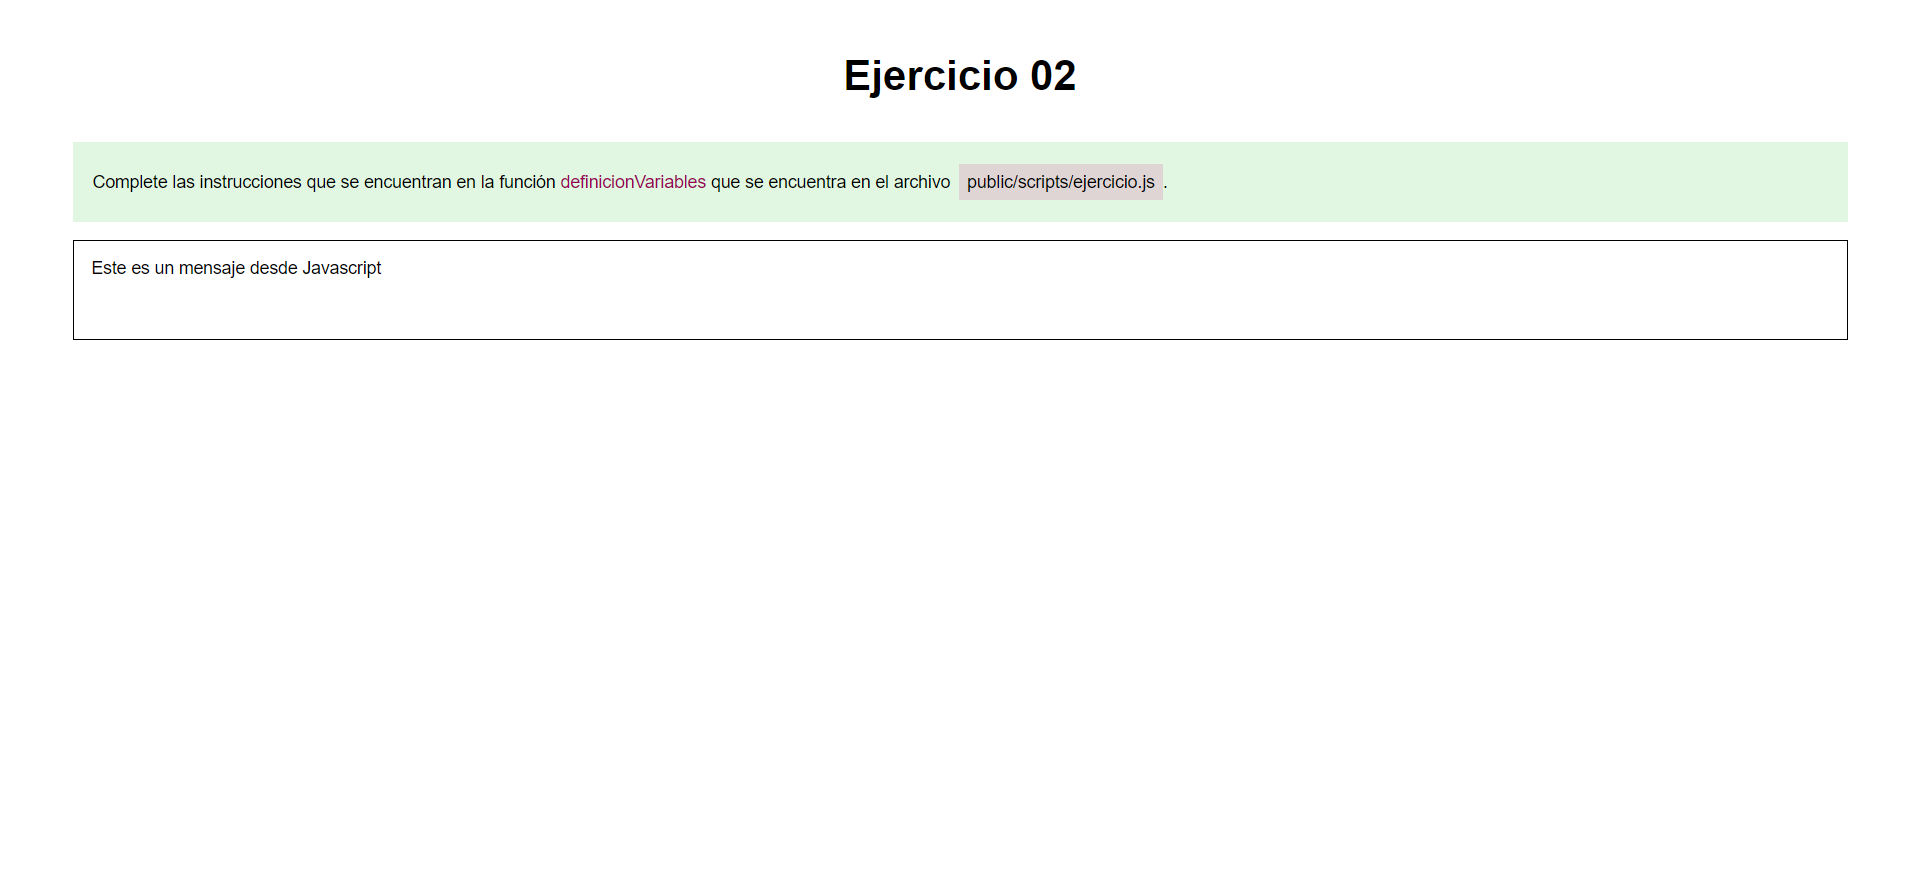
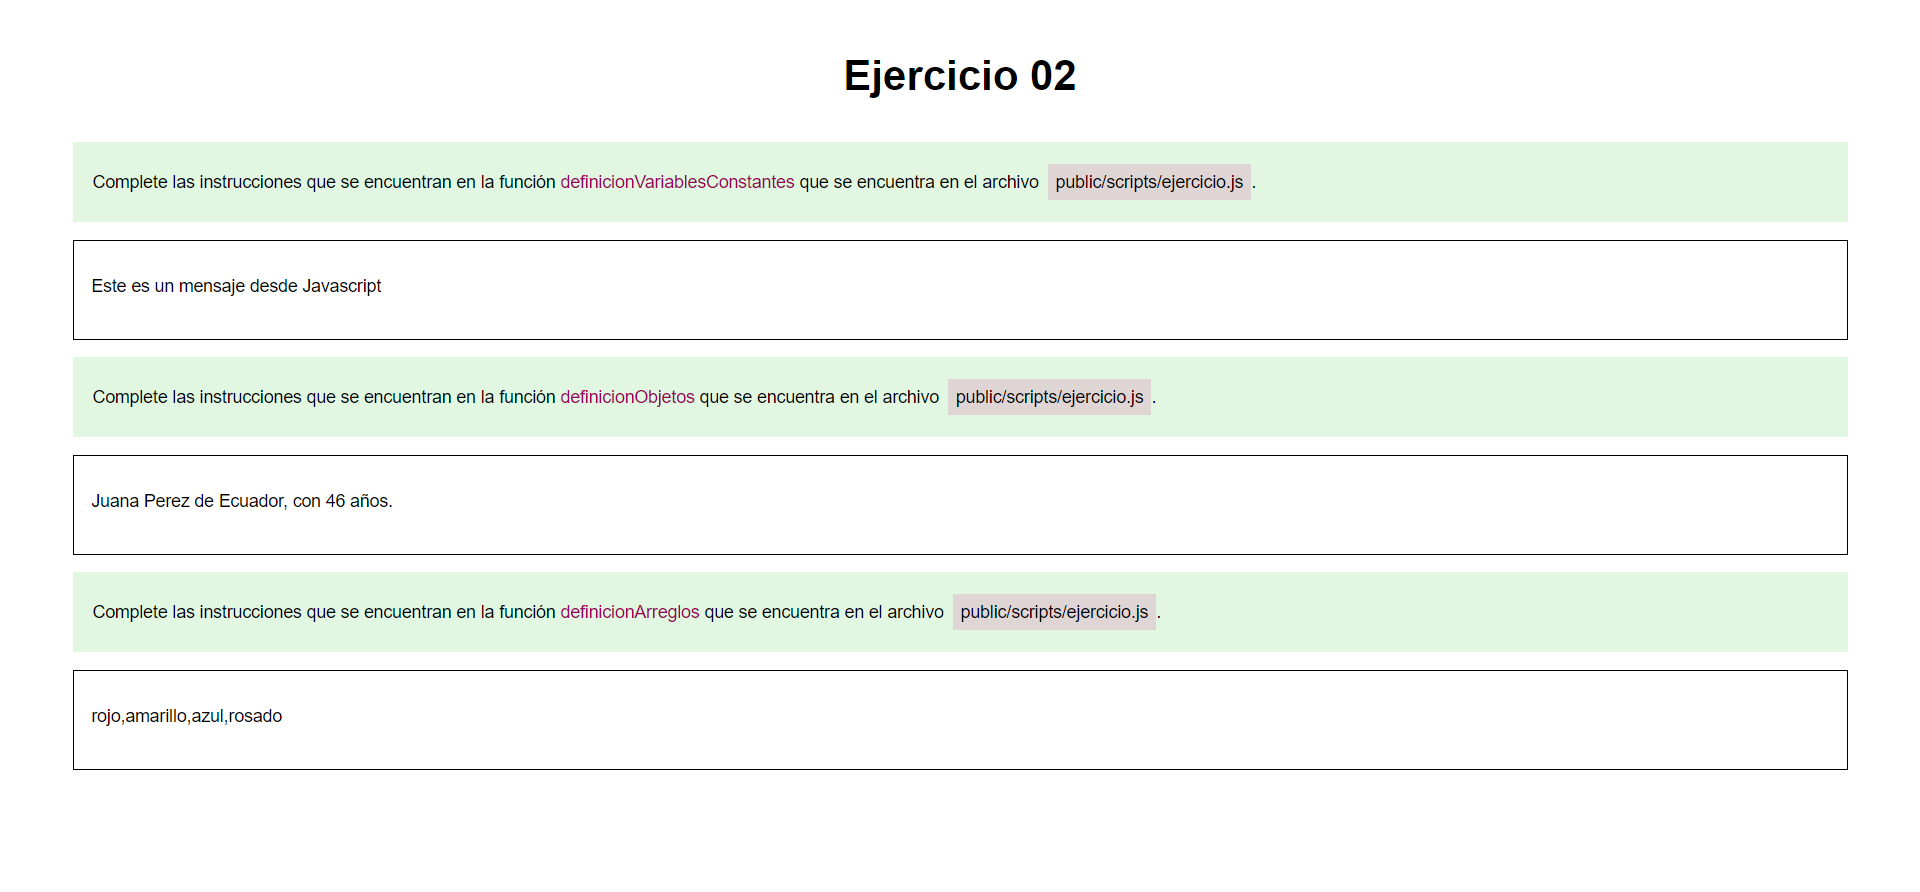
'C04/EJ04'

diff --git a/Capítulo 04/ejercicio02/test/ejercicio.test.js b/Capítulo 04/ejercicio02/test/ejercicio.test.js
@@ -19,31 +19,150 @@ describe('Test unitarios para la ruta `/`', function() {
         })
     });
 
-    it('Asignación de variables', function() {
+    it('Variables y constantes', function() {
       return request(app)
         .get('/scripts/ejercicio.js')
         .then((response) => {
 
+         let responseClean = response.text.replace(/(\r\n|\n|\r)/gm, '').replace(/ /gm,'')
+         let scriptTexto, scriptEjecutable
+
+         /* Revisión textual */
          try {
-
-            /* Revisión textual */
-            let responseClean = response.text.replace(/(\r\n|\n|\r)/gm, '')
-            let scriptTexto = `let mensaje = "Este es un mensaje desde Javascript"`
+            scriptTexto = `let mensaje = "Este es un mensaje desde "`.replace(/(\r\n|\n|\r)/gm, '').replace(/ /gm,'')
             chai.expect(responseClean).to.contain(scriptTexto)
-
-            /* Revisión al ejecutar */
-            let scriptEjecutable = requireFromString(response.text)
-            let mensaje = "Este es un mensaje desde Javascript"
-            chai.expect(scriptEjecutable.definicionVariables()).to.equal(mensaje)
-
           } catch (error) {
-            chai.expect.fail('La variable mensaje debe tener el valor "Este es un mensaje desde Javascript"');
+            chai.expect.fail('La variable mensaje debe tener el valor "Este es un mensaje desde "');
+            return;
+          }
+
+          try {
+            scriptTexto = `const LENGUAJE = "Javascript"`.replace(/(\r\n|\n|\r)/gm, '').replace(/ /gm,'')
+            chai.expect(responseClean).to.contain(scriptTexto)
+          } catch (error)
+          {
+            chai.expect.fail('La constante LENGUAJE debe tener el valor "Javascript"');
+            return;
+          }
+
+          /* Revisión con ejecución */
+          try {
+            scriptEjecutable = requireFromString(response.text)
+            let respuesta = "Este es un mensaje desde Javascript"
+            chai.expect(scriptEjecutable.definicionVariablesConstantes()).to.equal(respuesta)
+          } catch (error)
+          {
+            chai.expect.fail('La función debe retornar el valor "Este es un mensaje desde Javascript"');
             return;
           }
             
         })
-    });
-    
-   
+          
+    });  
+
+    it('Objetos', function() {
+      return request(app)
+        .get('/scripts/ejercicio.js')
+        .then((response) => {
+
+         let responseClean = response.text.replace(/(\r\n|\n|\r)/gm, '').replace(/ /gm,'')
+         let scriptTexto, scriptEjecutable
+
+         
+         /* Revisión textual */
+         try {
+            scriptTexto = `
+            let contacto = {
+                nombre: 'Juana',
+                apellido: 'Perez',
+                edad: 46,
+                casado: false,
+                sueldo: 1289.36,
+                direccion: {
+                    pais: 'Ecuador',
+                    provincia: 'Guayas',
+                    ciudad: 'Guayaquil'
+                }
+            }`.replace(/(\r\n|\n|\r)/gm, '').replace(/ /gm,'')
+
+            chai.expect(responseClean).to.contain(scriptTexto)
+          } catch (error) {
+            chai.expect.fail('Revise la estructura del objeto contacto en los comentarios');
+            return;
+          }
+
+
+          /* Revisión con ejecución */
+          try {
+            scriptEjecutable = requireFromString(response.text)
+            let respuesta = "Juana Perez de Ecuador, con 46 años."
+            chai.expect(scriptEjecutable.definicionObjeto()).to.equal(respuesta)
+          } catch (error)
+          {
+            chai.expect.fail('La función debe retornar los valores solicitados en el objeto contacto');
+            return;
+          }
+            
+        })
+          
+    });   
+
+    it('Arreglos', function() {
+      return request(app)
+        .get('/scripts/ejercicio.js')
+        .then((response) => {
+
+         let responseClean = response.text.replace(/(\r\n|\n|\r)/gm, '').replace(/ /gm,'')
+         let scriptTexto, scriptEjecutable
+
+         
+         /* Revisión textual */
+         try {
+            scriptTexto = `let colores = ['rojo', 'verde', 'azul']`.replace(/(\r\n|\n|\r)/gm, '').replace(/ /gm,'')
+            chai.expect(responseClean).to.contain(scriptTexto)
+          } catch (error) {
+            chai.expect.fail('Revise la definición del arreglo colores');
+            return;
+          }
+
+          try {
+            scriptTexto = `colores[1] = 'amarillo'`.replace(/(\r\n|\n|\r)/gm, '').replace(/ /gm,'')
+            chai.expect(responseClean).to.contain(scriptTexto)
+          } catch (error) {
+            chai.expect.fail("Revise cambiar el elemento en el índice 1 por 'amarillo'");
+            return;
+          }
+
+          try {
+            scriptTexto = `colores.push('rosado')`.replace(/(\r\n|\n|\r)/gm, '').replace(/ /gm,'')
+            chai.expect(responseClean).to.contain(scriptTexto)
+          } catch (error) {
+            chai.expect.fail("Revise agregar el elemento 'rosado' al final del arreglo");
+            return;
+          }
+
+          try {
+            scriptTexto = `let resultado = colores.toString()`.replace(/(\r\n|\n|\r)/gm, '').replace(/ /gm,'')
+            chai.expect(responseClean).to.contain(scriptTexto)
+          } catch (error) {
+            chai.expect.fail("Revise asignar a la variable resultado el valor del método toString");
+            return;
+          }
+
+
+          /* Revisión con ejecución */
+          try {
+            scriptEjecutable = requireFromString(response.text)
+            let respuesta = "rojo,amarillo,azul,rosado"
+            chai.expect(scriptEjecutable.definicionArreglos()).to.equal(respuesta)
+          } catch (error)
+          {
+            chai.expect.fail('La función debe retornar los valores solicitados del arreglo');
+            return;
+          }
+            
+        })
+          
+    });   
 
 });

diff --git a/Capítulo 04/ejercicio02/public/scripts/ejercicio.js b/Capítulo 04/ejercicio02/public/scripts/ejercicio.js
@@ -1,18 +1,100 @@
+/*
+    Revisar https://www.javascripttutorial.net/javascript-variables/
+*/
 
-function definicionVariables() {
+function definicionVariablesConstantes() {
 
     /*
         Utilice let para definir la variable mensaje
-        Asigne la variable mensaje con el texto "Este es un mensaje desde Javascript"
+        Asigne la variable mensaje con el texto "Este es un mensaje desde "
     */
 
     /* Inicio */
     
     /* Fin */
 
-    return mensaje;
+    /*
+        Utilice const para definir la constante LENGUAJE
+        Asigne la constante LENGUAJE con el texto "Javascript"
+    */
+
+    /* Inicio */
+    
+    /* Fin */
+
+    return mensaje + LENGUAJE;
+}
+
+/*
+    Revisar https://www.javascripttutorial.net/javascript-data-types/
+*/
+
+function definicionObjeto() {
+
+    /*
+        Utilice let para definir la variable contacto
+        Asigne la variable contacto con las propiedades y valores:
+            - nombre con valor 'Juana'
+            - apellido con valor 'Perez'
+            - edad con valor 46
+            - casado con valor false
+            - sueldo con valor 1289.36
+            - direccion con valor el objeto con propiedades y valores
+                + pais con valor 'Ecuador'
+                + provincia con valor 'Guayas'
+                + ciudad con valor 'Guayaquil'
+
+    */
+
+    /*Inicio*/
+    
+    /*Fin*/
+
+    return contacto.nombre + ' ' + contacto.apellido + ' de ' + contacto.direccion.pais + ', con ' + contacto.edad + ' años.'
+}
+
+/*
+    Revisar https://www.javascripttutorial.net/javascript-array/
+    y https://www.w3schools.com/jsref/jsref_tostring_array.asp
+*/
+
+function definicionArreglos() {
+
+    /*
+        Utilice let para definir el arreglo colores con los valores ['rojo', 'verde', 'azul']
+    */
+
+    /*Inicio*/
+    
+    /*Fin*/
+
+    /*
+        Cambie el elemento en el índice 1 por el valor 'amarillo'
+    */
+    /*Inicio*/
+    
+    /*Fin*/
+
+    /*
+        Agregue el color 'rosado' al final de la lista con método push
+    */
+    /*Inicio*/
+    
+    /*Fin*/
+
+    /*
+        Utilice let para definir la variable resultado
+        Asigne a resultado la conversión del arreglo colores a cadena de caracteres usando el método toString()
+    */
+    /*Inicio*/
+    
+    /*Fin*/
+
+    return resultado
 }
 
 module.exports = {
-    definicionVariables: definicionVariables
+    definicionVariablesConstantes: definicionVariablesConstantes,
+    definicionObjeto: definicionObjeto,
+    definicionArreglos: definicionArreglos
 };

diff --git a/Capítulo 04/ejercicio02/public/scripts/ejecutar.js b/Capítulo 04/ejercicio02/public/scripts/ejecutar.js
@@ -1,7 +1,7 @@
-
-
 function ejecutarFunciones() {
-    document.getElementsByClassName('respuesta')[0].innerHTML = definicionVariables()
+    document.getElementsByClassName('respuesta')[0].innerHTML = `<p>`+definicionVariablesConstantes()+`</p>`
+    document.getElementsByClassName('respuesta')[1].innerHTML = `<p>`+definicionObjeto()+`</p>`
+    document.getElementsByClassName('respuesta')[2].innerHTML = `<p>`+definicionArreglos()+`</p>`
 }
 
 ejecutarFunciones()
